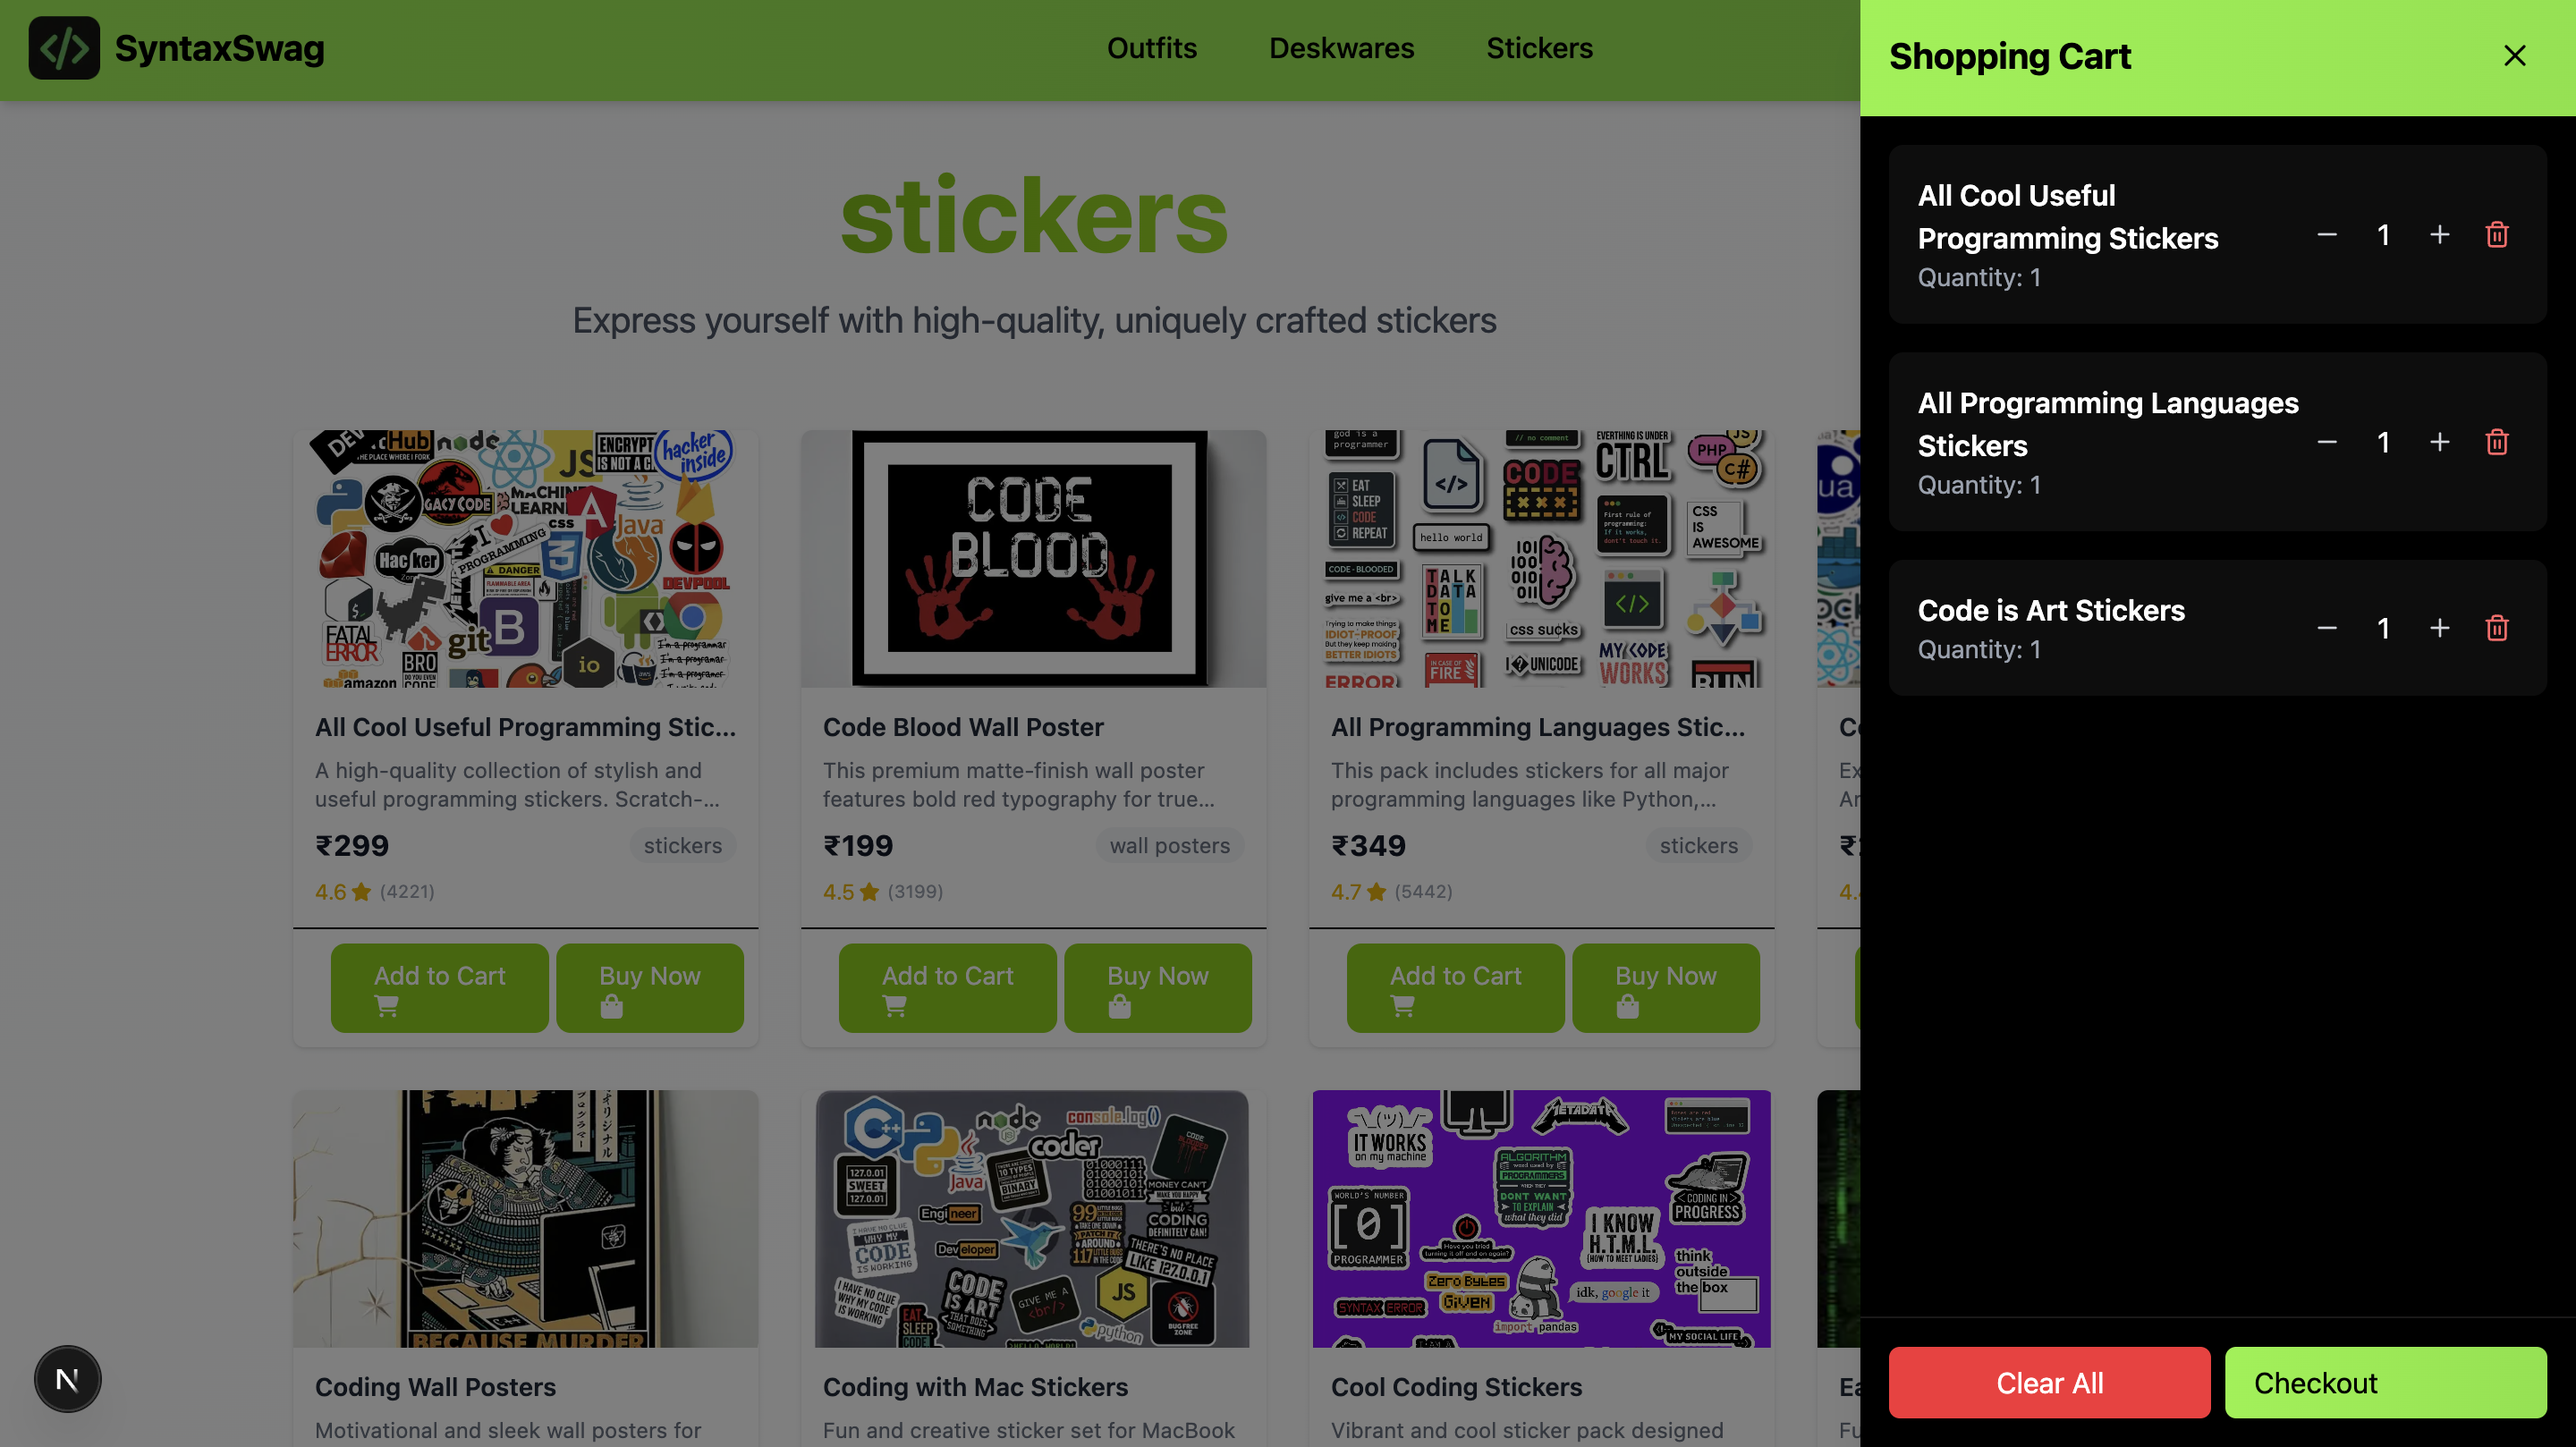
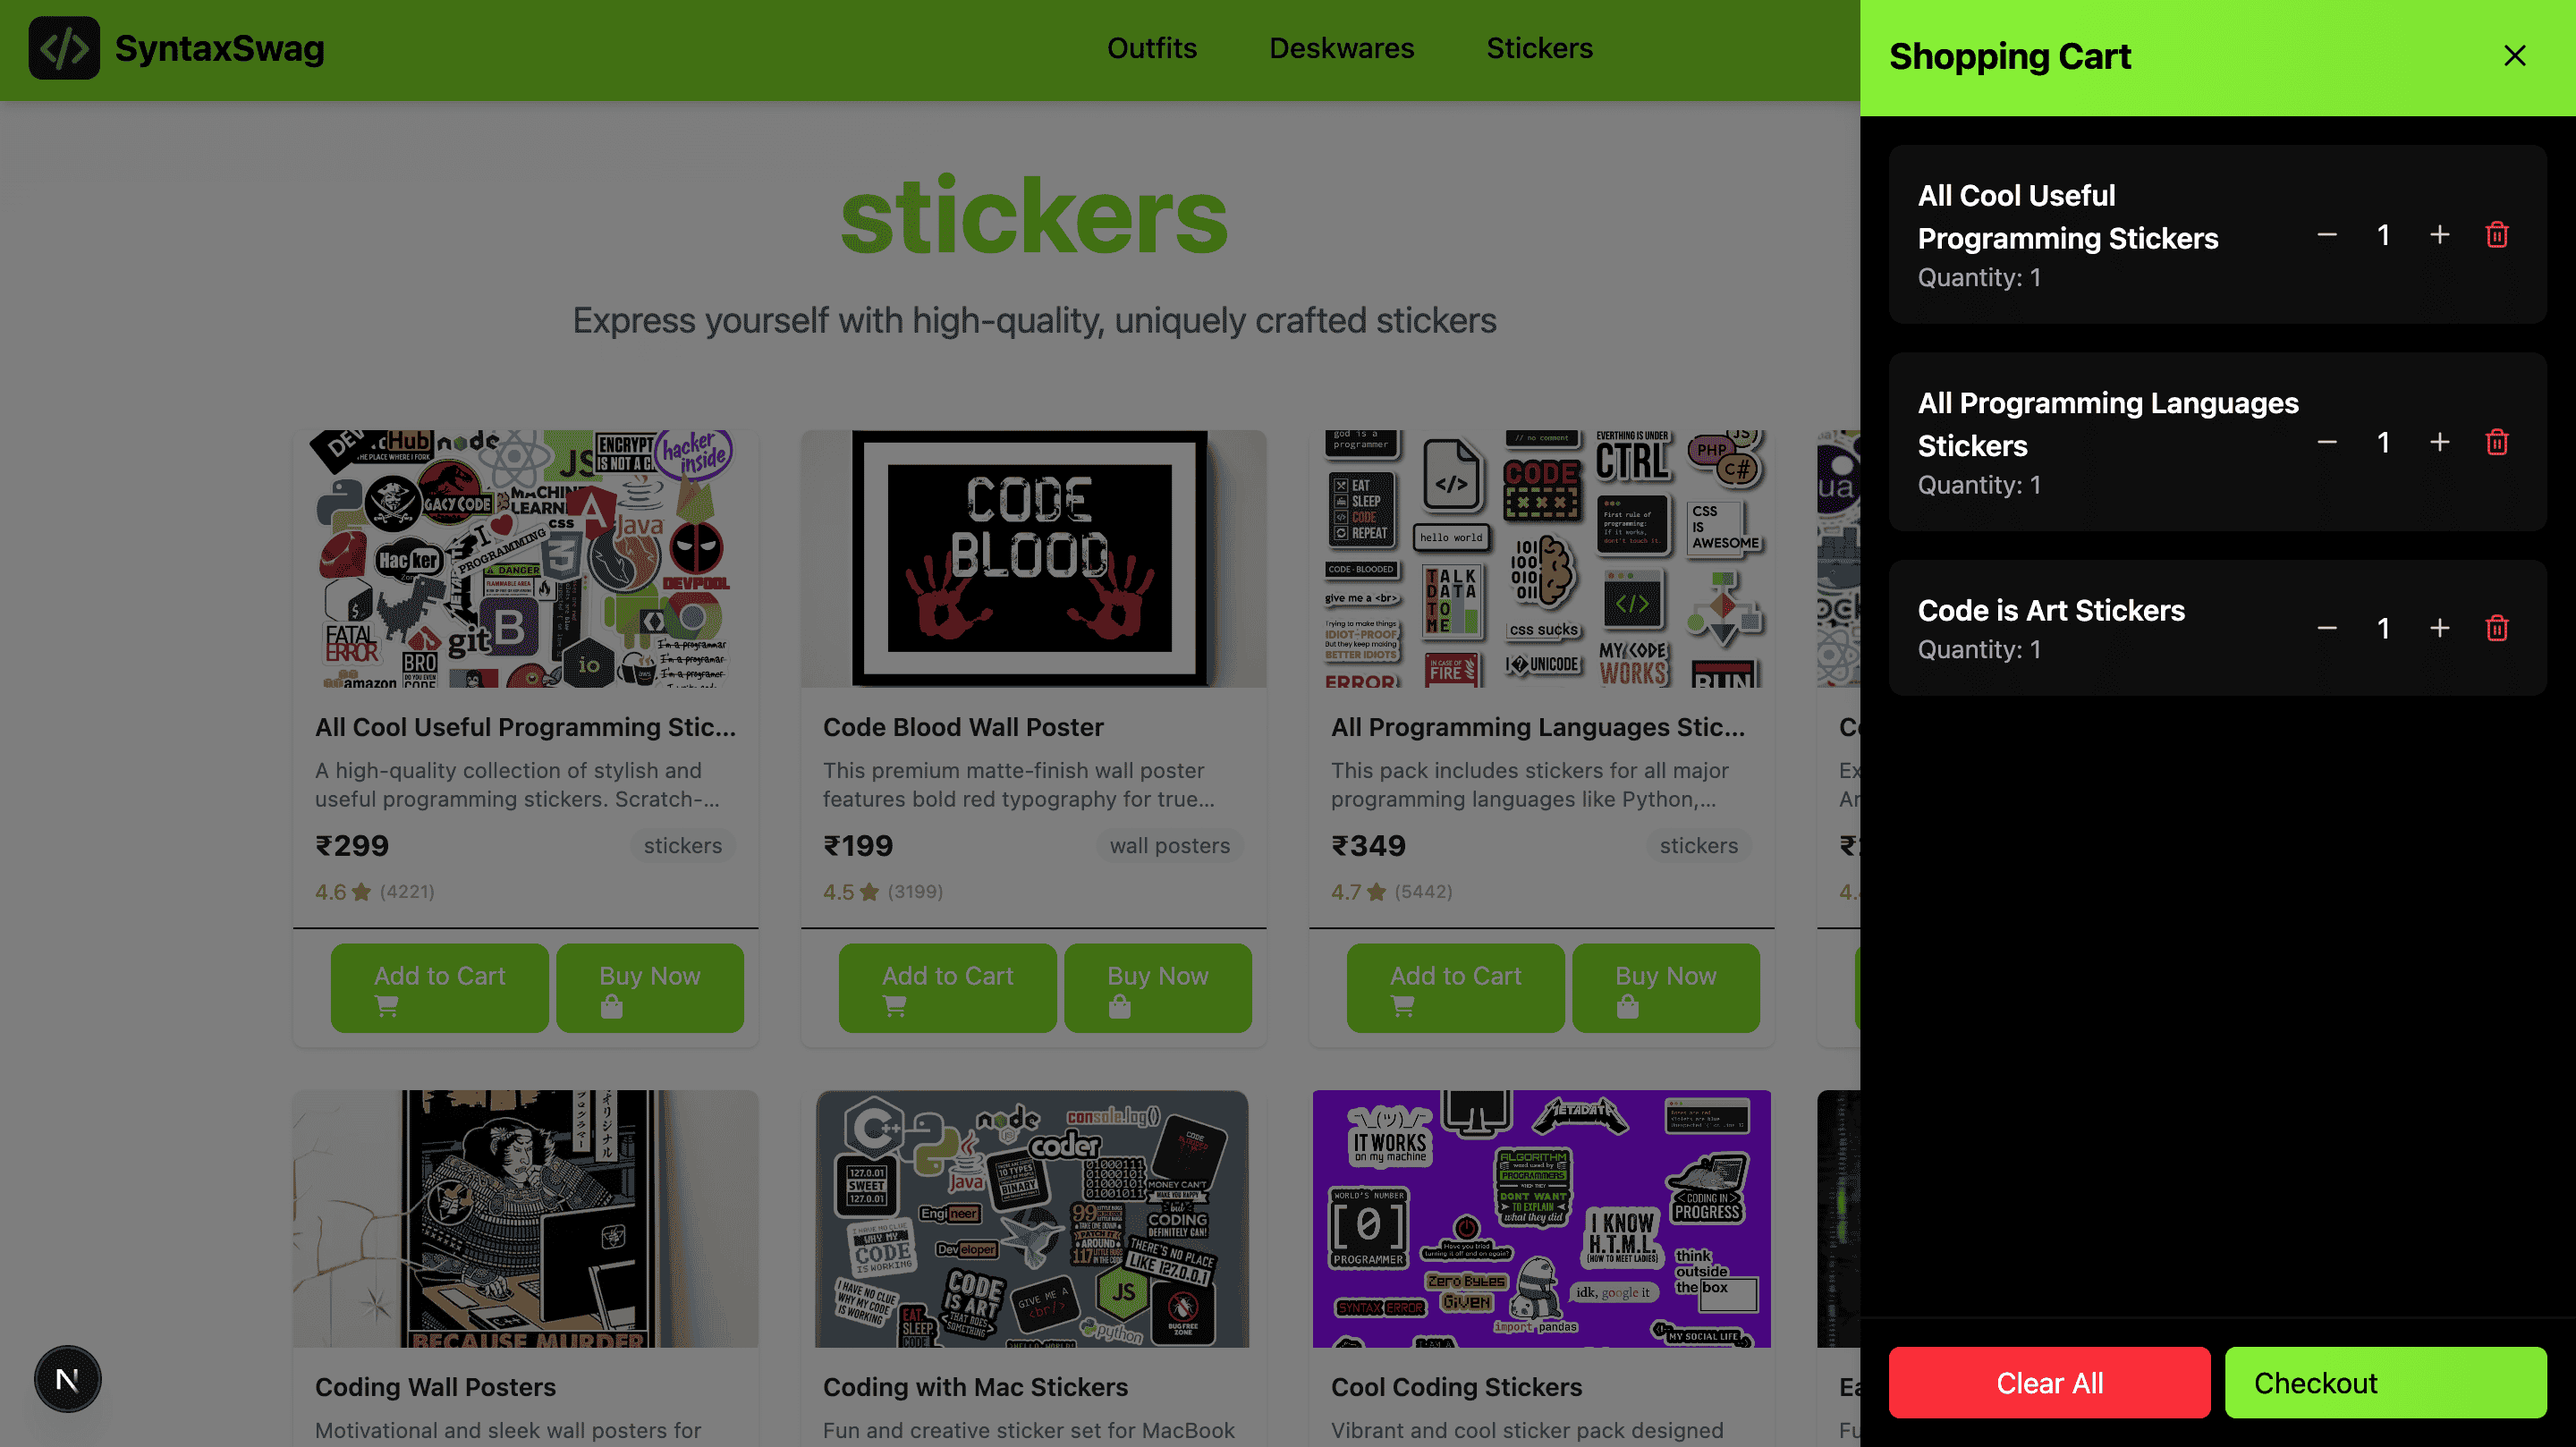
Changed ScreenShots of ReadMe
Compressed All screenshots

diff --git a/README.md b/README.md
@@ -66,23 +66,23 @@ DBname=
 ## Screenshots
 
 **Homepage:**
-![HomePage](<Screenshot 2025-08-02 at 9.06.33 PM.png>)
-![HomePgae 2nd Half](<Screenshot 2025-08-02 at 9.07.37 PM.png>)
+![HomePage 1st half](<Screenshot 2025-08-02 at 9.06.33 PM-min.png>)
+![HomePage 2nd half](<Screenshot 2025-08-02 at 9.07.37 PM.png>)
 
 **One of the category Page**
-![One category Page](<Screenshot 2025-08-02 at 9.08.00 PM.png>)
+![Category](<Screenshot 2025-08-02 at 9.08.00 PM.png>)
 
 **Filter**
 ![Filter](<Screenshot 2025-08-02 at 9.08.14 PM.png>)
 
 **CartSideBar**
-![CartSideBar](<Screenshot 2025-08-02 at 9.08.48 PM.png>)
+![Cart](<Screenshot 2025-08-02 at 9.08.48 PM.png>)
 
 **Search bar**
-![Search Bar](<Screenshot 2025-08-02 at 9.08.57 PM.png>)
+![Search](<Screenshot 2025-08-02 at 9.08.57 PM.png>)
 
 **Loading view**
-![Loading view](<Screenshot 2025-08-02 at 9.14.41 PM.png>)
+![Loading](<Screenshot 2025-08-02 at 9.14.41 PM.png>)
 
 **Register- Login & Sign up pages**
 ![Register](<Screenshot 2025-08-02 at 9.57.33 PM.png>)
@@ -91,10 +91,10 @@ DBname=
 ![Product](<Screenshot 2025-08-02 at 9.48.38 PM.png>)
 
 **Checkout page:**
-![Checkout Page](<Screenshot 2025-08-02 at 9.13.07 PM.png>)
+![Checkout](<Screenshot 2025-08-02 at 9.13.07 PM.png>)
 
 **Mobile View:**
-![Mobile View](<Screenshot 2025-08-02 at 10.01.56 PM.png>)
+![Mobile](<Screenshot 2025-08-02 at 10.01.56 PM.png>)
 
 ## What I Learned 📚
 
